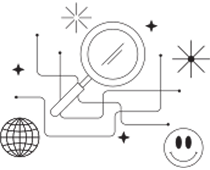
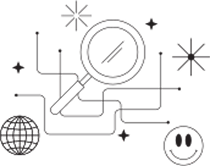
Section services

diff --git a/index.html b/index.html
@@ -120,6 +120,209 @@
                     /></a>
                 </div>
             </section>
+
+            <section class="services container">
+                <div class="services__header">
+                    <h2 class="services__title title">
+                        <span>Services</span>
+                    </h2>
+
+                    <p class="services__text">
+                        At our digital marketing agency, we offer a range of
+                        services to help businesses grow and succeed online.
+                        These services include:
+                    </p>
+                </div>
+
+                <div class="services__content">
+                    <article class="service">
+                        <div class="service__content">
+                            <h3 class="service__title title">
+                                <span>Search engine</span>
+                                <span>optimization</span>
+                            </h3>
+
+                            <a href="" class="service__link">
+                                <svg
+                                    width="41"
+                                    height="41"
+                                    viewBox="0 0 41 41"
+                                    fill="none"
+                                    xmlns="http://www.w3.org/2000/svg"
+                                >
+                                    <circle cx="20.5" cy="20.5" r="20.5" />
+                                    <path
+                                        d="M11.25 24.701C10.5326 25.1152 10.2867 26.0326 10.701 26.75C11.1152 27.4674 12.0326 27.7133 12.75 27.299L11.25 24.701ZM30.7694 16.3882C30.9838 15.588 30.5089 14.7655 29.7087 14.5511L16.6687 11.0571C15.8685 10.8426 15.046 11.3175 14.8316 12.1177C14.6172 12.9179 15.0921 13.7404 15.8923 13.9548L27.4834 17.0607L24.3776 28.6518C24.1631 29.452 24.638 30.2745 25.4382 30.4889C26.2384 30.7033 27.0609 30.2284 27.2753 29.4282L30.7694 16.3882ZM12.75 27.299L30.0705 17.299L28.5705 14.701L11.25 24.701L12.75 27.299Z"
+                                    />
+                                </svg>
+
+                                <span>Learn more</span>
+                            </a>
+                        </div>
+
+                        <img
+                            src="./src/assets/images/search-illustration.png"
+                            alt=""
+                            class="service__illustration"
+                        />
+                    </article>
+
+                    <article class="service service--green">
+                        <div class="service__content">
+                            <h3 class="service__title title title--secondary">
+                                <span>Pay-per-click</span
+                                ><span>advertising</span>
+                            </h3>
+
+                            <a href="" class="service__link">
+                                <svg
+                                    width="41"
+                                    height="41"
+                                    viewBox="0 0 41 41"
+                                    fill="none"
+                                    xmlns="http://www.w3.org/2000/svg"
+                                >
+                                    <circle cx="20.5" cy="20.5" r="20.5" />
+                                    <path
+                                        d="M11.25 24.701C10.5326 25.1152 10.2867 26.0326 10.701 26.75C11.1152 27.4674 12.0326 27.7133 12.75 27.299L11.25 24.701ZM30.7694 16.3882C30.9838 15.588 30.5089 14.7655 29.7087 14.5511L16.6687 11.0571C15.8685 10.8426 15.046 11.3175 14.8316 12.1177C14.6172 12.9179 15.0921 13.7404 15.8923 13.9548L27.4834 17.0607L24.3776 28.6518C24.1631 29.452 24.638 30.2745 25.4382 30.4889C26.2384 30.7033 27.0609 30.2284 27.2753 29.4282L30.7694 16.3882ZM12.75 27.299L30.0705 17.299L28.5705 14.701L11.25 24.701L12.75 27.299Z"
+                                    />
+                                </svg>
+
+                                <span>Learn more</span></a
+                            >
+                        </div>
+                        <img
+                            src="./src/assets/images/ppc-illustration.png"
+                            alt=""
+                            class="service__illustration"
+                        />
+                    </article>
+
+                    <article class="service service--dark">
+                        <div class="service__content">
+                            <h3 class="service__title title title--secondary">
+                                <span>Social Media</span>
+                                <span>Marketing</span>
+                            </h3>
+
+                            <a href="" class="service__link">
+                                <svg
+                                    width="41"
+                                    height="41"
+                                    viewBox="0 0 41 41"
+                                    fill="none"
+                                    xmlns="http://www.w3.org/2000/svg"
+                                >
+                                    <circle cx="20.5" cy="20.5" r="20.5" />
+                                    <path
+                                        d="M11.25 24.701C10.5326 25.1152 10.2867 26.0326 10.701 26.75C11.1152 27.4674 12.0326 27.7133 12.75 27.299L11.25 24.701ZM30.7694 16.3882C30.9838 15.588 30.5089 14.7655 29.7087 14.5511L16.6687 11.0571C15.8685 10.8426 15.046 11.3175 14.8316 12.1177C14.6172 12.9179 15.0921 13.7404 15.8923 13.9548L27.4834 17.0607L24.3776 28.6518C24.1631 29.452 24.638 30.2745 25.4382 30.4889C26.2384 30.7033 27.0609 30.2284 27.2753 29.4282L30.7694 16.3882ZM12.75 27.299L30.0705 17.299L28.5705 14.701L11.25 24.701L12.75 27.299Z"
+                                    />
+                                </svg>
+
+                                <span>Learn more</span>
+                            </a>
+                        </div>
+                        <img
+                            src="./src/assets/images/social-media-illustration.png"
+                            alt=""
+                            class="service__illustration"
+                        />
+                    </article>
+
+                    <article class="service">
+                        <div class="service__content">
+                            <h3 class="service__title title">
+                                <span>Email</span>
+                                <span>Marketing</span>
+                            </h3>
+
+                            <a href="" class="service__link">
+                                <svg
+                                    width="41"
+                                    height="41"
+                                    viewBox="0 0 41 41"
+                                    fill="none"
+                                    xmlns="http://www.w3.org/2000/svg"
+                                >
+                                    <circle cx="20.5" cy="20.5" r="20.5" />
+                                    <path
+                                        d="M11.25 24.701C10.5326 25.1152 10.2867 26.0326 10.701 26.75C11.1152 27.4674 12.0326 27.7133 12.75 27.299L11.25 24.701ZM30.7694 16.3882C30.9838 15.588 30.5089 14.7655 29.7087 14.5511L16.6687 11.0571C15.8685 10.8426 15.046 11.3175 14.8316 12.1177C14.6172 12.9179 15.0921 13.7404 15.8923 13.9548L27.4834 17.0607L24.3776 28.6518C24.1631 29.452 24.638 30.2745 25.4382 30.4889C26.2384 30.7033 27.0609 30.2284 27.2753 29.4282L30.7694 16.3882ZM12.75 27.299L30.0705 17.299L28.5705 14.701L11.25 24.701L12.75 27.299Z"
+                                    />
+                                </svg>
+                                <span>Learn more</span>
+                            </a>
+                        </div>
+
+                        <img
+                            src="./src/assets/images/marketing-illustration.png"
+                            alt=""
+                            class="service__illustration"
+                        />
+                    </article>
+
+                    <article class="service service--green">
+                        <div class="service__content">
+                            <h3 class="service__title title title--secondary">
+                                <span>Content</span>
+                                <span>Creation</span>
+                            </h3>
+
+                            <a href="" class="service__link">
+                                <svg
+                                    width="41"
+                                    height="41"
+                                    viewBox="0 0 41 41"
+                                    fill="none"
+                                    xmlns="http://www.w3.org/2000/svg"
+                                >
+                                    <circle cx="20.5" cy="20.5" r="20.5" />
+                                    <path
+                                        d="M11.25 24.701C10.5326 25.1152 10.2867 26.0326 10.701 26.75C11.1152 27.4674 12.0326 27.7133 12.75 27.299L11.25 24.701ZM30.7694 16.3882C30.9838 15.588 30.5089 14.7655 29.7087 14.5511L16.6687 11.0571C15.8685 10.8426 15.046 11.3175 14.8316 12.1177C14.6172 12.9179 15.0921 13.7404 15.8923 13.9548L27.4834 17.0607L24.3776 28.6518C24.1631 29.452 24.638 30.2745 25.4382 30.4889C26.2384 30.7033 27.0609 30.2284 27.2753 29.4282L30.7694 16.3882ZM12.75 27.299L30.0705 17.299L28.5705 14.701L11.25 24.701L12.75 27.299Z"
+                                    />
+                                </svg>
+                                <span>Learn more</span>
+                            </a>
+                        </div>
+
+                        <img
+                            src="./src/assets/images/content-creation-illustration.png"
+                            alt=""
+                            class="service__illustration"
+                        />
+                    </article>
+
+                    <article class="service service--dark">
+                        <div class="service__content">
+                            <h3 class="service__title title">
+                                <span>Analytics and</span>
+                                <span>Tracking</span>
+                            </h3>
+
+                            <a href="" class="service__link">
+                                <svg
+                                    width="41"
+                                    height="41"
+                                    viewBox="0 0 41 41"
+                                    fill="none"
+                                    xmlns="http://www.w3.org/2000/svg"
+                                >
+                                    <circle cx="20.5" cy="20.5" r="20.5" />
+                                    <path
+                                        d="M11.25 24.701C10.5326 25.1152 10.2867 26.0326 10.701 26.75C11.1152 27.4674 12.0326 27.7133 12.75 27.299L11.25 24.701ZM30.7694 16.3882C30.9838 15.588 30.5089 14.7655 29.7087 14.5511L16.6687 11.0571C15.8685 10.8426 15.046 11.3175 14.8316 12.1177C14.6172 12.9179 15.0921 13.7404 15.8923 13.9548L27.4834 17.0607L24.3776 28.6518C24.1631 29.452 24.638 30.2745 25.4382 30.4889C26.2384 30.7033 27.0609 30.2284 27.2753 29.4282L30.7694 16.3882ZM12.75 27.299L30.0705 17.299L28.5705 14.701L11.25 24.701L12.75 27.299Z"
+                                    />
+                                </svg>
+                                <span>Learn more</span>
+                            </a>
+                        </div>
+
+                        <img
+                            src="./src/assets/images/analytics-illustration.png"
+                            alt=""
+                            class="service__illustration"
+                        />
+                    </article>
+                </div>
+            </section>
         </main>
         <footer></footer>
 

diff --git a/src/scss/components/_service.scss b/src/scss/components/_service.scss
@@ -1,0 +1,114 @@
+@use "../abstracts/variables" as vars;
+
+.service {
+    height: 310px;
+    display: flex;
+    justify-content: space-between;
+    padding: 50px;
+    background-color: vars.$color-tertiary;
+    border: 1px solid vars.$color-secondary;
+    border-radius: 45px;
+    box-shadow: 0 5px 0 0 vars.$color-secondary;
+
+    &--green {
+        background-color: vars.$color-primary;
+
+        .service__link {
+            &:hover,
+            &:focus-visible {
+                svg {
+                    circle {
+                        fill: vars.$color-quaternary;
+                    }
+
+                    path {
+                        fill: vars.$color-secondary;
+                    }
+                }
+            }
+        }
+    }
+
+    &--dark {
+        background-color: vars.$color-secondary;
+
+        .service__link {
+            color: vars.$color-quaternary;
+
+            svg {
+                circle {
+                    fill: vars.$color-quaternary;
+                }
+
+                path {
+                    fill: vars.$color-secondary;
+                }
+            }
+
+            &:hover,
+            &:focus-visible {
+                svg {
+                    circle {
+                        fill: vars.$color-primary;
+                    }
+
+                    path {
+                        fill: vars.$color-secondary;
+                    }
+                }
+            }
+        }
+    }
+
+    &__content {
+        display: flex;
+        flex-direction: column;
+        justify-content: space-between;
+        align-items: start;
+    }
+
+    &__title {
+        display: flex;
+        flex-direction: column;
+        align-items: start;
+    }
+
+    &__link {
+        display: flex;
+        align-items: center;
+        gap: 15px;
+        font-size: vars.$font-xlarge;
+        transition: color 0.3s ease;
+
+        svg {
+            circle {
+                fill: vars.$color-secondary;
+                transition: fill 0.3s ease;
+            }
+
+            path {
+                fill: vars.$color-primary;
+                transition: fill 0.3s ease;
+            }
+        }
+
+        &:hover,
+        &:focus-visible {
+            svg {
+                circle {
+                    fill: vars.$color-primary;
+                }
+
+                path {
+                    fill: vars.$color-secondary;
+                }
+            }
+        }
+    }
+
+    &__illustration {
+        flex: 0;
+        width: 210px;
+        object-fit: contain;
+    }
+}

diff --git a/src/scss/abstracts/_variables.scss b/src/scss/abstracts/_variables.scss
@@ -9,16 +9,15 @@ $font-title-1: 3.75rem; // 60px
 $font-title-2: 2.5rem; // 40px
 $font-title-3: 1.875rem; // 30px
 
+$line-height-title: 1.3em;
+$line-height-text: 1.4rem; // 22.5px
+
 // Color
 $color-primary: #b9ff66;
 $color-secondary: #191a23;
 $color-tertiary: #f3f3f3;
-$color-white: #fff;
+$color-quaternary: #fff;
 
 // Spacing
 $container-max-width: 1240px;
 $container-gutter: 20px;
-
-// Radius
-$radius-medium: 14px;
-$radius-large: 45px;

diff --git a/src/scss/layout/_services.scss b/src/scss/layout/_services.scss
@@ -1,0 +1,18 @@
+.services {
+    margin-top: 140px;
+
+    &__header {
+        width: 65%;
+        display: flex;
+        align-items: center;
+        gap: 40px;
+    }
+
+    &__content {
+        display: grid;
+        grid-template-columns: repeat(2, 1fr);
+        column-gap: 40px;
+        row-gap: 40px;
+        margin-top: 80px;
+    }
+}

diff --git a/src/scss/main.scss b/src/scss/main.scss
@@ -7,6 +7,9 @@
 @use "./layout/footer";
 @use "./layout/hero";
 @use "./layout/partners";
+@use "./layout/services";
 @use "./layout/container";
 
 @use "./components/button";
+@use "./components/title";
+@use "./components/service";
